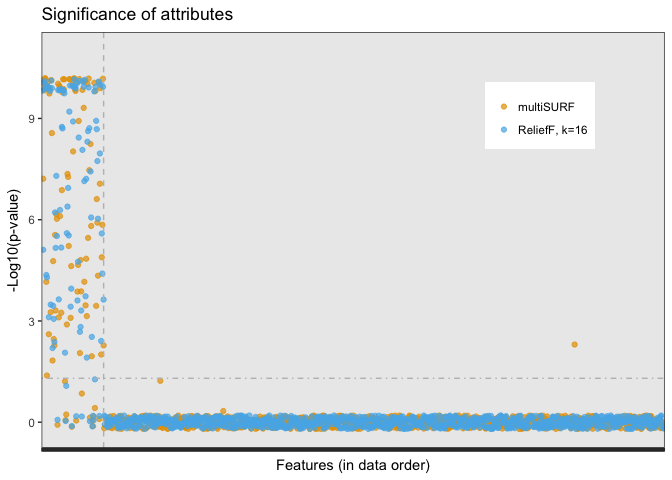
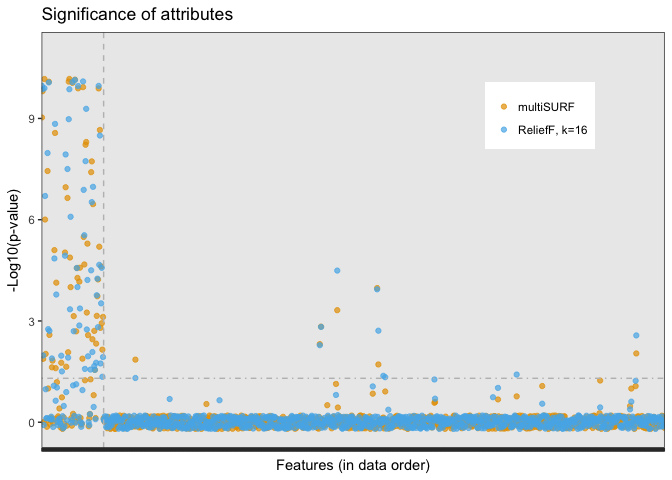
Double checking vignettes and examples to make sure I didn't break them. Any script or markdown that uses $`STIR-t` needs to be changed to $STIR_T.

diff --git a/STIRexample.md b/STIRexample.md
@@ -1,7 +1,7 @@
 STIR (STatistical Inference Relief) Example
 ================
 Brett McKinney and Trang Le
-2018-07-12
+2018-07-18
 
 Install STIR and privateEC:
 ---------------------------
@@ -35,8 +35,8 @@ Simulate data with privateEC
 ``` r
 letsSimulate <- T   # F to use previously simulated data
 class.lab <- "class"
-writeData <- letsSimulate  # usually the same
-writeResults <- T
+writeData <- F  # usually the same as letsSimulate
+writeResults <- F
 
 num.samp <- 100
 num.attr <- 1000
@@ -80,22 +80,22 @@ metric <- "manhattan"
 # let k=0 because multisurf does not use k
 neighbor.idx.observed <- find.neighbors(predictors.mat, pheno.class, k = 0, method = RF.method)
 results.list <- stir(predictors.mat, neighbor.idx.observed, k = k, metric = metric, method = RF.method)
-t_sorted_multisurf <- results.list$`STIR-t`[, -3]  # remove cohen-d
+t_sorted_multisurf <- results.list$STIR_T[, -3]  # remove cohen-d
 colnames(t_sorted_multisurf) <- paste(c("t.stat", "t.pval", "t.pval.adj"), "stir", sep=".")
 (t_sorted_multisurf[1:10,])
 ```
 
     ##          t.stat.stir  t.pval.stir t.pval.adj.stir
-    ## simvar63   11.844177 3.827384e-32    3.827384e-29
-    ## simvar1    11.810575 5.635538e-32    5.629902e-29
-    ## simvar55   11.241182 3.399137e-29    3.392339e-26
-    ## simvar14   10.769340 5.483913e-27    5.467461e-24
-    ## simvar20   10.642974 2.067472e-26    2.059202e-23
-    ## simvar34   10.315815 6.000613e-25    5.970610e-22
-    ## simvar32   10.231040 1.413502e-24    1.405021e-21
-    ## simvar98   10.073603 6.819262e-24    6.771527e-21
-    ## simvar56    9.964957 1.993471e-23    1.977523e-20
-    ## simvar85    9.827012 7.661615e-23    7.592661e-20
+    ## simvar53   10.405782 2.688475e-25    2.688475e-22
+    ## simvar69    8.979117 2.179423e-19    2.177244e-16
+    ## simvar19    8.681967 2.931270e-18    2.925408e-15
+    ## simvar49    8.402737 3.128784e-17    3.119397e-14
+    ## simvar10    8.226849 1.339647e-16    1.334288e-13
+    ## simvar48    7.678817 1.034552e-14    1.029379e-11
+    ## simvar61    7.661820 1.178561e-14    1.171490e-11
+    ## simvar12    7.621981 1.597942e-14    1.586757e-11
+    ## simvar91    7.615994 1.672525e-14    1.659145e-11
+    ## simvar57    7.369054 1.066236e-13    1.056640e-10
 
 ``` r
 t_sorted_multisurf$attribute <- rownames(t_sorted_multisurf) # adds a column for merge
@@ -113,22 +113,22 @@ k <- floor(num.samp/6)  # k=m/6 should be similar to MultiSURF
 i <- i+1  # if you want to use k for loop
 neighbor.idx.observed <- find.neighbors(predictors.mat, pheno.class, k = k, method = RF.method)
 results.list <- stir(predictors.mat, neighbor.idx.observed, k = k, metric = metric, method = RF.method)
-t_sorted_relieff[[i]] <- results.list$`STIR-t`[, -3]
+t_sorted_relieff[[i]] <- results.list$STIR_T[, -3]
 colnames(t_sorted_relieff[[i]]) <- paste(c("t.stat", "t.pval", "t.pval.adj"), k, sep=".")
 (t_sorted_relieff[[i]][1:10,])
 ```
 
     ##          t.stat.16    t.pval.16 t.pval.adj.16
-    ## simvar1  11.977493 1.136481e-32  1.136481e-29
-    ## simvar63 11.178031 8.746913e-29  8.738166e-26
-    ## simvar55 10.371823 4.102019e-25  4.093815e-22
-    ## simvar56 10.223259 1.828220e-24  1.822735e-21
-    ## simvar34 10.150724 3.765207e-24  3.750146e-21
-    ## simvar14 10.149205 3.822400e-24  3.803288e-21
-    ## simvar20 10.016505 1.415628e-23  1.407134e-20
-    ## simvar85  9.801441 1.142475e-22  1.134478e-19
-    ## simvar32  9.724861 2.379014e-22  2.359982e-19
-    ## simvar5   9.601221 7.688314e-22  7.619119e-19
+    ## simvar53 10.436254 2.132324e-25  2.132324e-22
+    ## simvar19  8.747637 1.729603e-18  1.727874e-15
+    ## simvar69  8.464474 1.931650e-17  1.927787e-14
+    ## simvar49  7.929971 1.501494e-15  1.496989e-12
+    ## simvar10  7.895881 1.964286e-15  1.956429e-12
+    ## simvar61  7.738830 6.678804e-15  6.645410e-12
+    ## simvar91  7.629877 1.540153e-14  1.530912e-11
+    ## simvar57  7.573471 2.363406e-14  2.346862e-11
+    ## simvar12  7.543726 2.958625e-14  2.934956e-11
+    ## simvar1   7.515995 3.645166e-14  3.612360e-11
 
 ``` r
 t_sorted_relieff[[i]]$attribute <- rownames(t_sorted_relieff[[i]])
